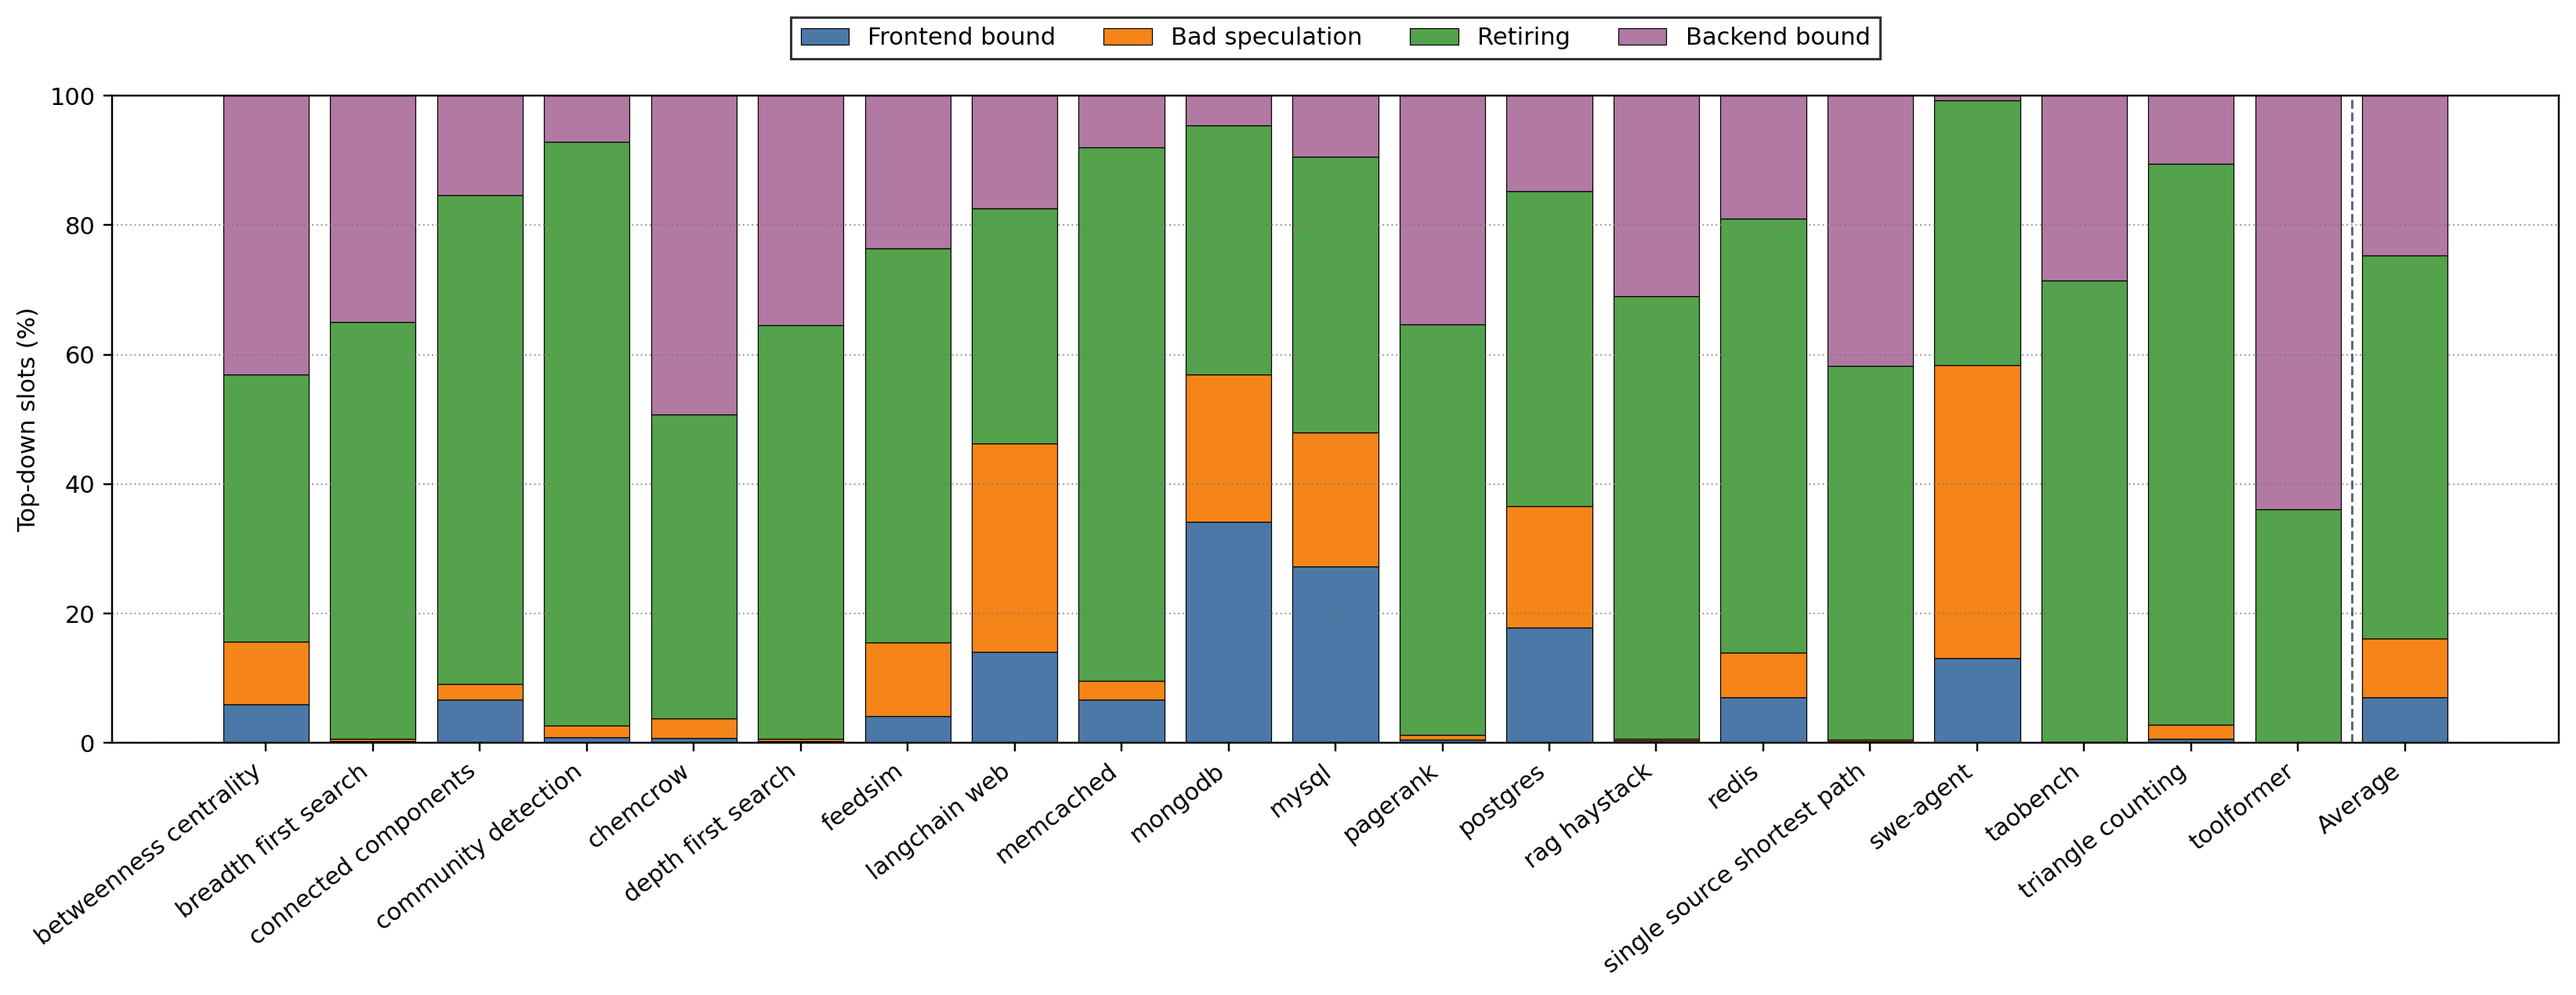
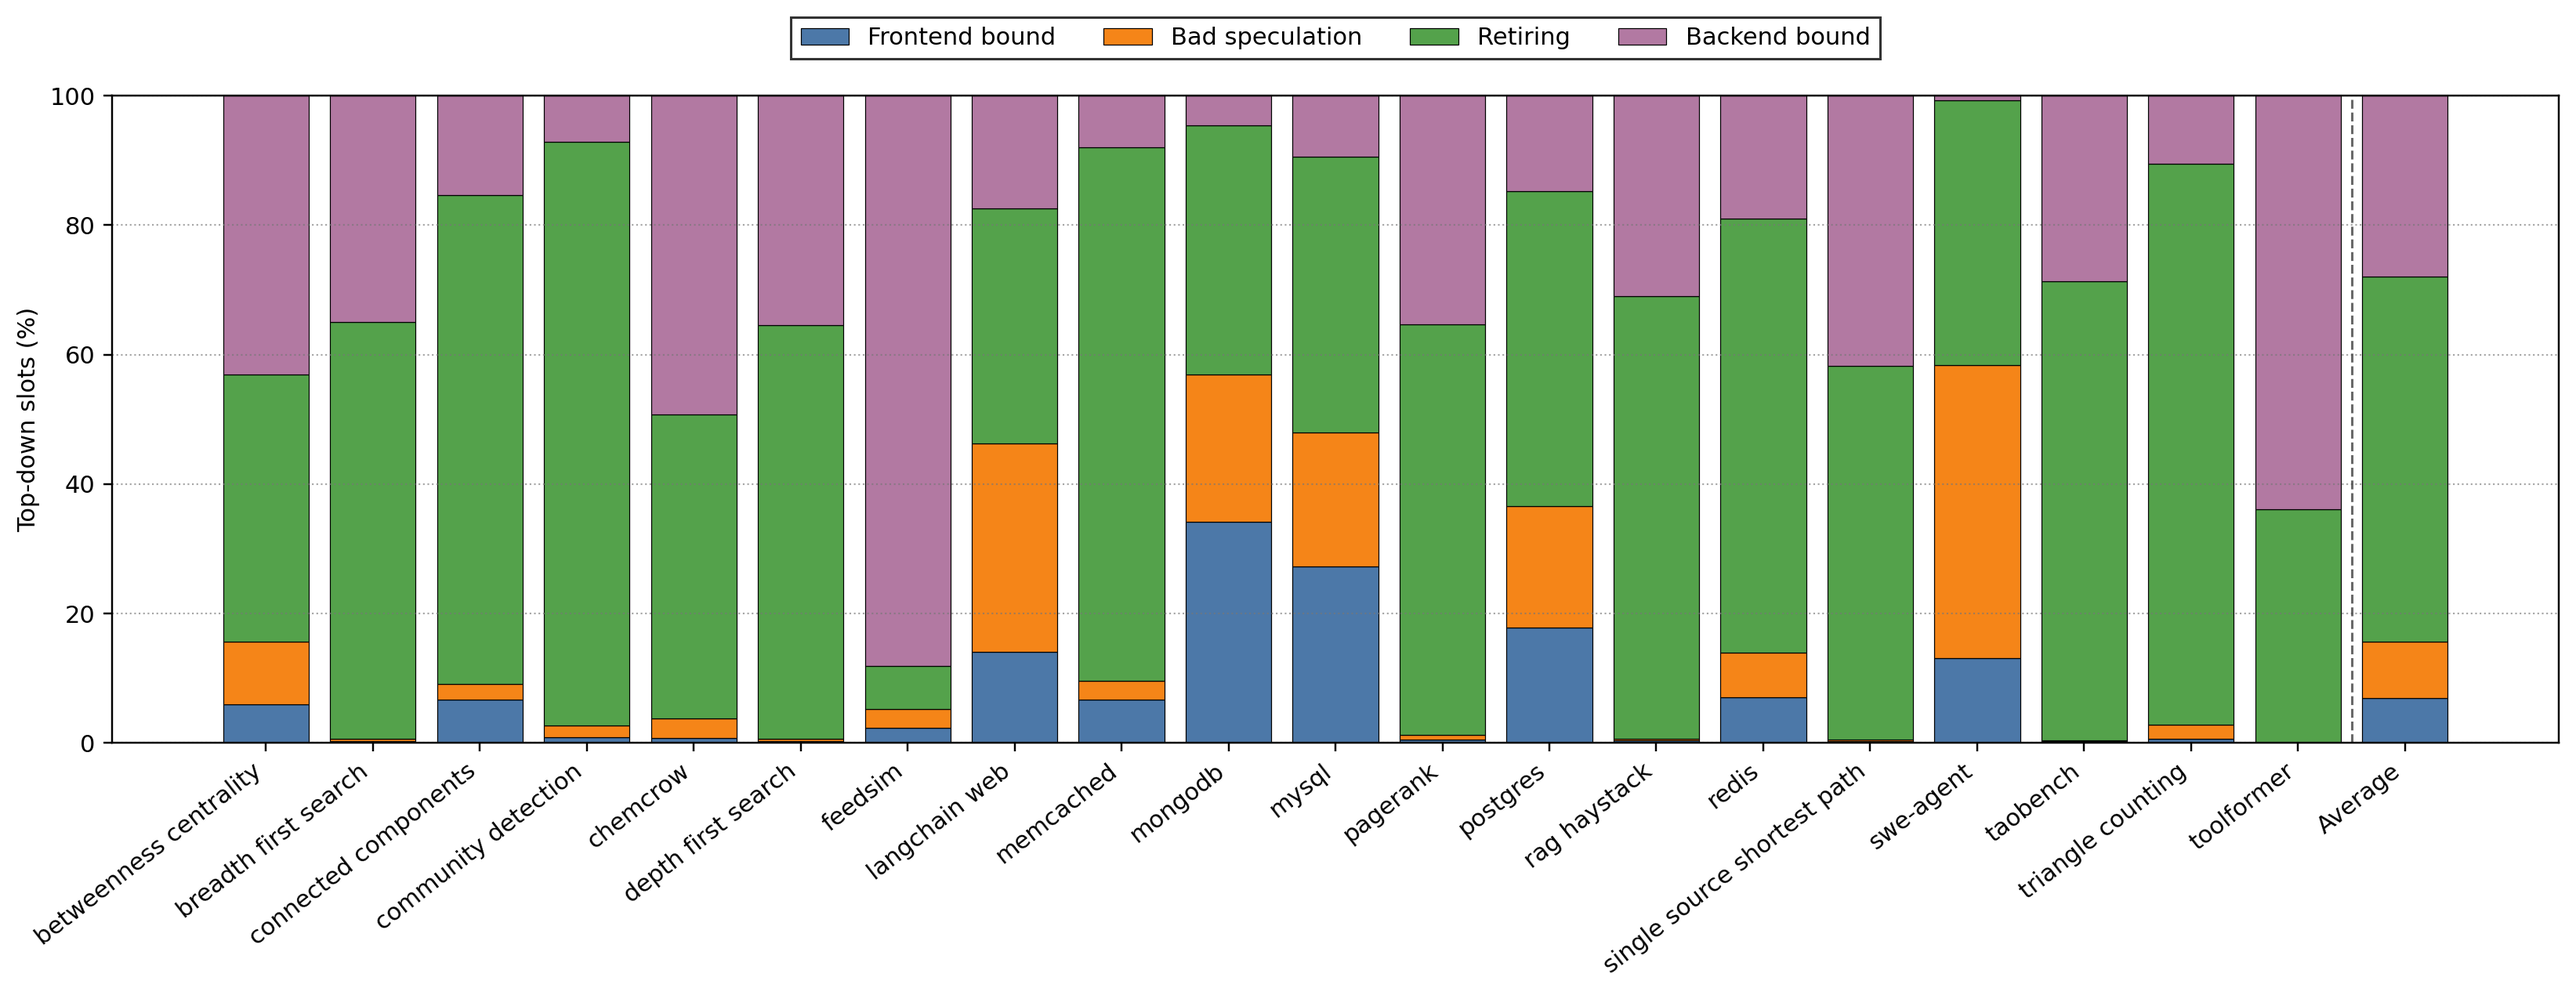
Switch feedsim/tao to SimPoint-weighted bundle results
Recollected both with larger budgets (1.5B/0.99B fetched) so the hot server
thread spans 13/17 chunks, packaged standard SimPoint bundles (bbfp via
scarab trace_bbv_distributed, SimPoint 3.2 maxK=sqrt(segments), 0.99
coverage trim, minimize_trace warmup_chunks=1), and reran zero-warmup
target-chunk sims per simpoint. feedsim is 88.13% backend bound when
SimPoint-weighted (whole-window run understated it at 23.54%). tao cluster 0
(23.6% weight, likely TLS/crypto) is undecodable by scarab (OP_INV) and is
excluded with renormalization; coverage 76.4%. make_dcperf_bundle.sh added.

Changed region(s): [[0.3103, 0.2457, 0.3724, 0.737], [0.8999, 0.2457, 0.962, 0.2764]]

diff --git a/results/backend-stalls/README.md b/results/backend-stalls/README.md
@@ -65,3 +65,22 @@ PARAMS.in as all other bars. Backend bound: feedsim 23.54%, tao 28.50%.
 Django's trace is pending delay calibration (launch-mode collection is
 validated); MediaWiki is pending the JIT-tracing decision; VideoTranscode is
 pending the CDVL dataset. See docs/hpca2027_dcperf_characterization_status.md.
+
+## 2026-07-11: feedsim/tao switched to SimPoint bundles (bfs-style)
+
+Both DCPerf workloads were recollected with larger budgets (feedsim 1.50B,
+tao 0.99B fetched) so the largest server thread alone spans 13/17 x 10M
+chunks, then packaged into standard SimPoint bundles on amd162 under
+`hpca2027_dcperf/bundles/{feedsim,tao}` (fingerprint/, simpoints/,
+traces_simp/trace/<segment>.zip in the [chunk.0000, seg-1, seg] layout,
+scripts/make_dcperf_bundle.sh). Graph bars are now SimPoint-weighted,
+zero-warmup target-chunk measurements:
+
+- feedsim: segments 5/6/12, weights 0.484/0.484/0.032 -> 88.13% backend bound.
+  The earlier whole-window single run (23.54%) blended request-handling
+  phases; the weighted steady-state phases are strongly memory bound.
+- tao: segments 9/1, weights renormalized from 0.291/0.472 (cluster 0, weight
+  0.236, is excluded: all four member segments abort scarab 7185dea5 with a
+  uop_generator OP_INV undecodable instruction, likely the TLS/crypto phase;
+  documented in the bundle trace_clustering_info.json; SimPoint coverage
+  76.4%) -> 28.61% backend bound.
